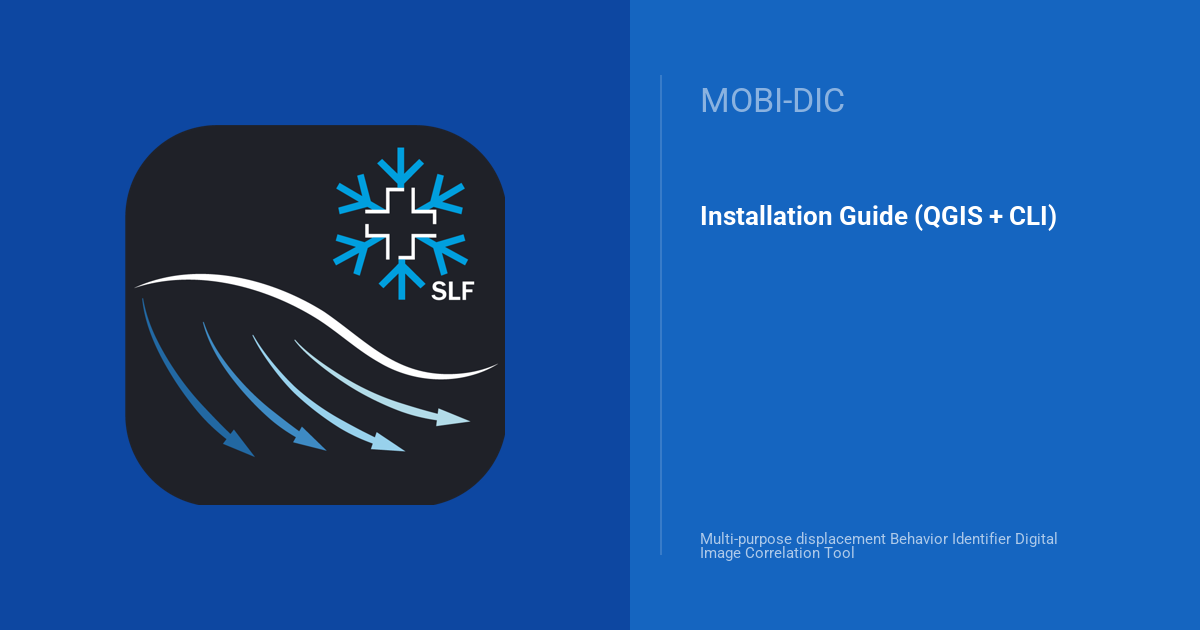
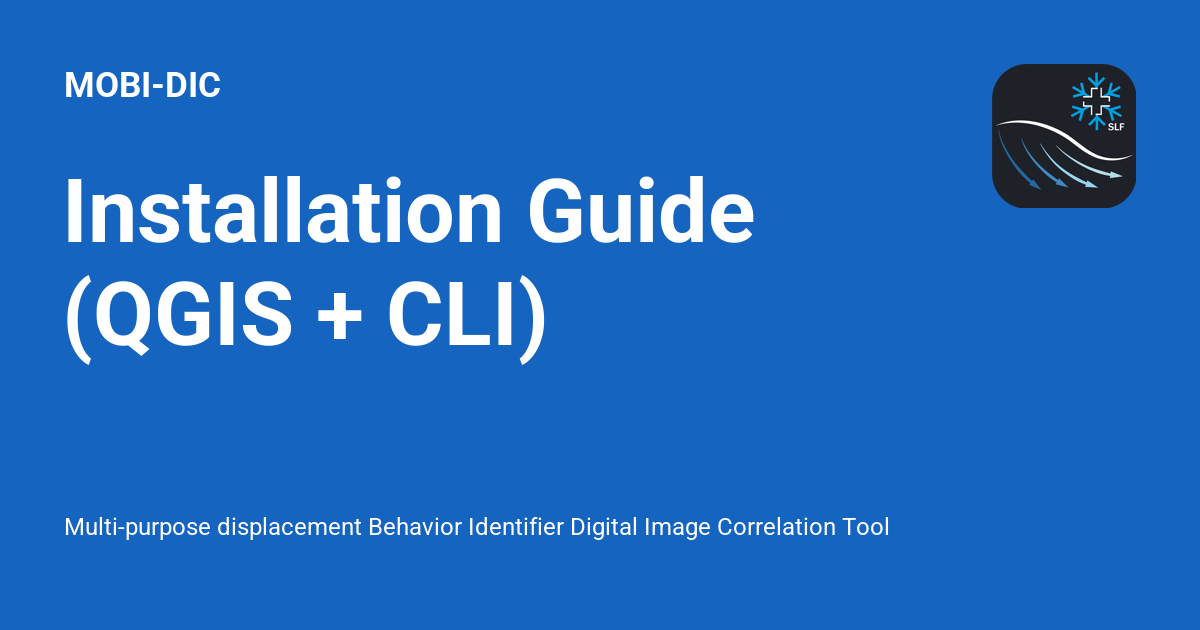
Update documentation

diff --git a/getting-started/installation-pipeline.html b/getting-started/installation-pipeline.html
@@ -60,7 +60,20 @@
 
     
     
-  <link href="../assets/stylesheets/glightbox.min.css" rel="stylesheet"><script src="../assets/javascripts/glightbox.min.js"></script><style id="glightbox-style">
+  
+<meta property="og:type" content="website">
+<meta property="og:title" content="Installation Guide (Pipeline Only) - MOBI-DIC">
+<meta property="og:description" content="Multi-purpose displacement Behavior Identifier Digital Image Correlation Tool">
+<meta property="og:image" content="https://fdenzinger.github.io/mobi-dic/assets/images/social/getting-started/installation-pipeline.png">
+<meta property="og:image:type" content="image/png">
+<meta property="og:image:width" content="1200">
+<meta property="og:image:height" content="630">
+<meta property="og:url" content="https://fdenzinger.github.io/mobi-dic/getting-started/installation-pipeline.html">
+<meta property="twitter:card" content="summary_large_image">
+<meta property="twitter:title" content="Installation Guide (Pipeline Only) - MOBI-DIC">
+<meta property="twitter:description" content="Multi-purpose displacement Behavior Identifier Digital Image Correlation Tool">
+<meta property="twitter:image" content="https://fdenzinger.github.io/mobi-dic/assets/images/social/getting-started/installation-pipeline.png">
+<link href="../assets/stylesheets/glightbox.min.css" rel="stylesheet"><script src="../assets/javascripts/glightbox.min.js"></script><style id="glightbox-style">
             html.glightbox-open { overflow: initial; height: 100%; }
             .gslide-title { margin-top: 0px; user-select: text; }
             .gslide-desc { color: #666; user-select: text; }

diff --git a/getting-started/installation-qgis.html b/getting-started/installation-qgis.html
@@ -60,7 +60,20 @@
 
     
     
-  <link href="../assets/stylesheets/glightbox.min.css" rel="stylesheet"><script src="../assets/javascripts/glightbox.min.js"></script><style id="glightbox-style">
+  
+<meta property="og:type" content="website">
+<meta property="og:title" content="Installation Guide (QGIS + CLI) - MOBI-DIC">
+<meta property="og:description" content="Multi-purpose displacement Behavior Identifier Digital Image Correlation Tool">
+<meta property="og:image" content="https://fdenzinger.github.io/mobi-dic/assets/images/social/getting-started/installation-qgis.png">
+<meta property="og:image:type" content="image/png">
+<meta property="og:image:width" content="1200">
+<meta property="og:image:height" content="630">
+<meta property="og:url" content="https://fdenzinger.github.io/mobi-dic/getting-started/installation-qgis.html">
+<meta property="twitter:card" content="summary_large_image">
+<meta property="twitter:title" content="Installation Guide (QGIS + CLI) - MOBI-DIC">
+<meta property="twitter:description" content="Multi-purpose displacement Behavior Identifier Digital Image Correlation Tool">
+<meta property="twitter:image" content="https://fdenzinger.github.io/mobi-dic/assets/images/social/getting-started/installation-qgis.png">
+<link href="../assets/stylesheets/glightbox.min.css" rel="stylesheet"><script src="../assets/javascripts/glightbox.min.js"></script><style id="glightbox-style">
             html.glightbox-open { overflow: initial; height: 100%; }
             .gslide-title { margin-top: 0px; user-select: text; }
             .gslide-desc { color: #666; user-select: text; }

diff --git a/getting-started/troubleshooting.html b/getting-started/troubleshooting.html
@@ -60,7 +60,20 @@
 
     
     
-  <link href="../assets/stylesheets/glightbox.min.css" rel="stylesheet"><script src="../assets/javascripts/glightbox.min.js"></script><style id="glightbox-style">
+  
+<meta property="og:type" content="website">
+<meta property="og:title" content="Troubleshooting - MOBI-DIC">
+<meta property="og:description" content="Multi-purpose displacement Behavior Identifier Digital Image Correlation Tool">
+<meta property="og:image" content="https://fdenzinger.github.io/mobi-dic/assets/images/social/getting-started/troubleshooting.png">
+<meta property="og:image:type" content="image/png">
+<meta property="og:image:width" content="1200">
+<meta property="og:image:height" content="630">
+<meta property="og:url" content="https://fdenzinger.github.io/mobi-dic/getting-started/troubleshooting.html">
+<meta property="twitter:card" content="summary_large_image">
+<meta property="twitter:title" content="Troubleshooting - MOBI-DIC">
+<meta property="twitter:description" content="Multi-purpose displacement Behavior Identifier Digital Image Correlation Tool">
+<meta property="twitter:image" content="https://fdenzinger.github.io/mobi-dic/assets/images/social/getting-started/troubleshooting.png">
+<link href="../assets/stylesheets/glightbox.min.css" rel="stylesheet"><script src="../assets/javascripts/glightbox.min.js"></script><style id="glightbox-style">
             html.glightbox-open { overflow: initial; height: 100%; }
             .gslide-title { margin-top: 0px; user-select: text; }
             .gslide-desc { color: #666; user-select: text; }

diff --git a/getting-started/installation.html b/getting-started/installation.html
@@ -60,7 +60,20 @@
 
     
     
-  <link href="../assets/stylesheets/glightbox.min.css" rel="stylesheet"><script src="../assets/javascripts/glightbox.min.js"></script><style id="glightbox-style">
+  
+<meta property="og:type" content="website">
+<meta property="og:title" content="Software Overview - MOBI-DIC">
+<meta property="og:description" content="Multi-purpose displacement Behavior Identifier Digital Image Correlation Tool">
+<meta property="og:image" content="https://fdenzinger.github.io/mobi-dic/assets/images/social/getting-started/installation.png">
+<meta property="og:image:type" content="image/png">
+<meta property="og:image:width" content="1200">
+<meta property="og:image:height" content="630">
+<meta property="og:url" content="https://fdenzinger.github.io/mobi-dic/getting-started/installation.html">
+<meta property="twitter:card" content="summary_large_image">
+<meta property="twitter:title" content="Software Overview - MOBI-DIC">
+<meta property="twitter:description" content="Multi-purpose displacement Behavior Identifier Digital Image Correlation Tool">
+<meta property="twitter:image" content="https://fdenzinger.github.io/mobi-dic/assets/images/social/getting-started/installation.png">
+<link href="../assets/stylesheets/glightbox.min.css" rel="stylesheet"><script src="../assets/javascripts/glightbox.min.js"></script><style id="glightbox-style">
             html.glightbox-open { overflow: initial; height: 100%; }
             .gslide-title { margin-top: 0px; user-select: text; }
             .gslide-desc { color: #666; user-select: text; }

diff --git a/cli/config-reference.html b/cli/config-reference.html
@@ -60,7 +60,20 @@
 
     
     
-  <link href="../assets/stylesheets/glightbox.min.css" rel="stylesheet"><script src="../assets/javascripts/glightbox.min.js"></script><style id="glightbox-style">
+  
+<meta property="og:type" content="website">
+<meta property="og:title" content="Configuration Reference - MOBI-DIC">
+<meta property="og:description" content="Multi-purpose displacement Behavior Identifier Digital Image Correlation Tool">
+<meta property="og:image" content="https://fdenzinger.github.io/mobi-dic/assets/images/social/cli/config-reference.png">
+<meta property="og:image:type" content="image/png">
+<meta property="og:image:width" content="1200">
+<meta property="og:image:height" content="630">
+<meta property="og:url" content="https://fdenzinger.github.io/mobi-dic/cli/config-reference.html">
+<meta property="twitter:card" content="summary_large_image">
+<meta property="twitter:title" content="Configuration Reference - MOBI-DIC">
+<meta property="twitter:description" content="Multi-purpose displacement Behavior Identifier Digital Image Correlation Tool">
+<meta property="twitter:image" content="https://fdenzinger.github.io/mobi-dic/assets/images/social/cli/config-reference.png">
+<link href="../assets/stylesheets/glightbox.min.css" rel="stylesheet"><script src="../assets/javascripts/glightbox.min.js"></script><style id="glightbox-style">
             html.glightbox-open { overflow: initial; height: 100%; }
             .gslide-title { margin-top: 0px; user-select: text; }
             .gslide-desc { color: #666; user-select: text; }

diff --git a/plugin/tab-postprocessing.html b/plugin/tab-postprocessing.html
@@ -60,7 +60,20 @@
 
     
     
-  <link href="../assets/stylesheets/glightbox.min.css" rel="stylesheet"><script src="../assets/javascripts/glightbox.min.js"></script><style id="glightbox-style">
+  
+<meta property="og:type" content="website">
+<meta property="og:title" content="Post-Processing - MOBI-DIC">
+<meta property="og:description" content="Multi-purpose displacement Behavior Identifier Digital Image Correlation Tool">
+<meta property="og:image" content="https://fdenzinger.github.io/mobi-dic/assets/images/social/plugin/tab-postprocessing.png">
+<meta property="og:image:type" content="image/png">
+<meta property="og:image:width" content="1200">
+<meta property="og:image:height" content="630">
+<meta property="og:url" content="https://fdenzinger.github.io/mobi-dic/plugin/tab-postprocessing.html">
+<meta property="twitter:card" content="summary_large_image">
+<meta property="twitter:title" content="Post-Processing - MOBI-DIC">
+<meta property="twitter:description" content="Multi-purpose displacement Behavior Identifier Digital Image Correlation Tool">
+<meta property="twitter:image" content="https://fdenzinger.github.io/mobi-dic/assets/images/social/plugin/tab-postprocessing.png">
+<link href="../assets/stylesheets/glightbox.min.css" rel="stylesheet"><script src="../assets/javascripts/glightbox.min.js"></script><style id="glightbox-style">
             html.glightbox-open { overflow: initial; height: 100%; }
             .gslide-title { margin-top: 0px; user-select: text; }
             .gslide-desc { color: #666; user-select: text; }

diff --git a/plugin/tab-vector-filter.html b/plugin/tab-vector-filter.html
@@ -60,7 +60,20 @@
 
     
     
-  <link href="../assets/stylesheets/glightbox.min.css" rel="stylesheet"><script src="../assets/javascripts/glightbox.min.js"></script><style id="glightbox-style">
+  
+<meta property="og:type" content="website">
+<meta property="og:title" content="Vector Filter - MOBI-DIC">
+<meta property="og:description" content="Multi-purpose displacement Behavior Identifier Digital Image Correlation Tool">
+<meta property="og:image" content="https://fdenzinger.github.io/mobi-dic/assets/images/social/plugin/tab-vector-filter.png">
+<meta property="og:image:type" content="image/png">
+<meta property="og:image:width" content="1200">
+<meta property="og:image:height" content="630">
+<meta property="og:url" content="https://fdenzinger.github.io/mobi-dic/plugin/tab-vector-filter.html">
+<meta property="twitter:card" content="summary_large_image">
+<meta property="twitter:title" content="Vector Filter - MOBI-DIC">
+<meta property="twitter:description" content="Multi-purpose displacement Behavior Identifier Digital Image Correlation Tool">
+<meta property="twitter:image" content="https://fdenzinger.github.io/mobi-dic/assets/images/social/plugin/tab-vector-filter.png">
+<link href="../assets/stylesheets/glightbox.min.css" rel="stylesheet"><script src="../assets/javascripts/glightbox.min.js"></script><style id="glightbox-style">
             html.glightbox-open { overflow: initial; height: 100%; }
             .gslide-title { margin-top: 0px; user-select: text; }
             .gslide-desc { color: #666; user-select: text; }

diff --git a/getting-started/first-run.html b/getting-started/first-run.html
@@ -60,7 +60,20 @@
 
     
     
-  <link href="../assets/stylesheets/glightbox.min.css" rel="stylesheet"><script src="../assets/javascripts/glightbox.min.js"></script><style id="glightbox-style">
+  
+<meta property="og:type" content="website">
+<meta property="og:title" content="First Run - MOBI-DIC">
+<meta property="og:description" content="Multi-purpose displacement Behavior Identifier Digital Image Correlation Tool">
+<meta property="og:image" content="https://fdenzinger.github.io/mobi-dic/assets/images/social/getting-started/first-run.png">
+<meta property="og:image:type" content="image/png">
+<meta property="og:image:width" content="1200">
+<meta property="og:image:height" content="630">
+<meta property="og:url" content="https://fdenzinger.github.io/mobi-dic/getting-started/first-run.html">
+<meta property="twitter:card" content="summary_large_image">
+<meta property="twitter:title" content="First Run - MOBI-DIC">
+<meta property="twitter:description" content="Multi-purpose displacement Behavior Identifier Digital Image Correlation Tool">
+<meta property="twitter:image" content="https://fdenzinger.github.io/mobi-dic/assets/images/social/getting-started/first-run.png">
+<link href="../assets/stylesheets/glightbox.min.css" rel="stylesheet"><script src="../assets/javascripts/glightbox.min.js"></script><style id="glightbox-style">
             html.glightbox-open { overflow: initial; height: 100%; }
             .gslide-title { margin-top: 0px; user-select: text; }
             .gslide-desc { color: #666; user-select: text; }

diff --git a/plugin/tab-dic-params.html b/plugin/tab-dic-params.html
@@ -60,7 +60,20 @@
 
     
     
-  <link href="../assets/stylesheets/glightbox.min.css" rel="stylesheet"><script src="../assets/javascripts/glightbox.min.js"></script><style id="glightbox-style">
+  
+<meta property="og:type" content="website">
+<meta property="og:title" content="DIC Parameters - MOBI-DIC">
+<meta property="og:description" content="Multi-purpose displacement Behavior Identifier Digital Image Correlation Tool">
+<meta property="og:image" content="https://fdenzinger.github.io/mobi-dic/assets/images/social/plugin/tab-dic-params.png">
+<meta property="og:image:type" content="image/png">
+<meta property="og:image:width" content="1200">
+<meta property="og:image:height" content="630">
+<meta property="og:url" content="https://fdenzinger.github.io/mobi-dic/plugin/tab-dic-params.html">
+<meta property="twitter:card" content="summary_large_image">
+<meta property="twitter:title" content="DIC Parameters - MOBI-DIC">
+<meta property="twitter:description" content="Multi-purpose displacement Behavior Identifier Digital Image Correlation Tool">
+<meta property="twitter:image" content="https://fdenzinger.github.io/mobi-dic/assets/images/social/plugin/tab-dic-params.png">
+<link href="../assets/stylesheets/glightbox.min.css" rel="stylesheet"><script src="../assets/javascripts/glightbox.min.js"></script><style id="glightbox-style">
             html.glightbox-open { overflow: initial; height: 100%; }
             .gslide-title { margin-top: 0px; user-select: text; }
             .gslide-desc { color: #666; user-select: text; }

diff --git a/cli/overview.html b/cli/overview.html
@@ -60,7 +60,20 @@
 
     
     
-  <link href="../assets/stylesheets/glightbox.min.css" rel="stylesheet"><script src="../assets/javascripts/glightbox.min.js"></script><style id="glightbox-style">
+  
+<meta property="og:type" content="website">
+<meta property="og:title" content="CLI &amp; Batch Processing - MOBI-DIC">
+<meta property="og:description" content="Multi-purpose displacement Behavior Identifier Digital Image Correlation Tool">
+<meta property="og:image" content="https://fdenzinger.github.io/mobi-dic/assets/images/social/cli/overview.png">
+<meta property="og:image:type" content="image/png">
+<meta property="og:image:width" content="1200">
+<meta property="og:image:height" content="630">
+<meta property="og:url" content="https://fdenzinger.github.io/mobi-dic/cli/overview.html">
+<meta property="twitter:card" content="summary_large_image">
+<meta property="twitter:title" content="CLI &amp; Batch Processing - MOBI-DIC">
+<meta property="twitter:description" content="Multi-purpose displacement Behavior Identifier Digital Image Correlation Tool">
+<meta property="twitter:image" content="https://fdenzinger.github.io/mobi-dic/assets/images/social/cli/overview.png">
+<link href="../assets/stylesheets/glightbox.min.css" rel="stylesheet"><script src="../assets/javascripts/glightbox.min.js"></script><style id="glightbox-style">
             html.glightbox-open { overflow: initial; height: 100%; }
             .gslide-title { margin-top: 0px; user-select: text; }
             .gslide-desc { color: #666; user-select: text; }

diff --git a/plugin/tab-layout.html b/plugin/tab-layout.html
@@ -60,7 +60,20 @@
 
     
     
-  <link href="../assets/stylesheets/glightbox.min.css" rel="stylesheet"><script src="../assets/javascripts/glightbox.min.js"></script><style id="glightbox-style">
+  
+<meta property="og:type" content="website">
+<meta property="og:title" content="Map Layout Builder - MOBI-DIC">
+<meta property="og:description" content="Multi-purpose displacement Behavior Identifier Digital Image Correlation Tool">
+<meta property="og:image" content="https://fdenzinger.github.io/mobi-dic/assets/images/social/plugin/tab-layout.png">
+<meta property="og:image:type" content="image/png">
+<meta property="og:image:width" content="1200">
+<meta property="og:image:height" content="630">
+<meta property="og:url" content="https://fdenzinger.github.io/mobi-dic/plugin/tab-layout.html">
+<meta property="twitter:card" content="summary_large_image">
+<meta property="twitter:title" content="Map Layout Builder - MOBI-DIC">
+<meta property="twitter:description" content="Multi-purpose displacement Behavior Identifier Digital Image Correlation Tool">
+<meta property="twitter:image" content="https://fdenzinger.github.io/mobi-dic/assets/images/social/plugin/tab-layout.png">
+<link href="../assets/stylesheets/glightbox.min.css" rel="stylesheet"><script src="../assets/javascripts/glightbox.min.js"></script><style id="glightbox-style">
             html.glightbox-open { overflow: initial; height: 100%; }
             .gslide-title { margin-top: 0px; user-select: text; }
             .gslide-desc { color: #666; user-select: text; }

diff --git a/plugin/overview.html b/plugin/overview.html
@@ -60,7 +60,20 @@
 
     
     
-  <link href="../assets/stylesheets/glightbox.min.css" rel="stylesheet"><script src="../assets/javascripts/glightbox.min.js"></script><style id="glightbox-style">
+  
+<meta property="og:type" content="website">
+<meta property="og:title" content="QGIS Plugin Overview - MOBI-DIC">
+<meta property="og:description" content="Multi-purpose displacement Behavior Identifier Digital Image Correlation Tool">
+<meta property="og:image" content="https://fdenzinger.github.io/mobi-dic/assets/images/social/plugin/overview.png">
+<meta property="og:image:type" content="image/png">
+<meta property="og:image:width" content="1200">
+<meta property="og:image:height" content="630">
+<meta property="og:url" content="https://fdenzinger.github.io/mobi-dic/plugin/overview.html">
+<meta property="twitter:card" content="summary_large_image">
+<meta property="twitter:title" content="QGIS Plugin Overview - MOBI-DIC">
+<meta property="twitter:description" content="Multi-purpose displacement Behavior Identifier Digital Image Correlation Tool">
+<meta property="twitter:image" content="https://fdenzinger.github.io/mobi-dic/assets/images/social/plugin/overview.png">
+<link href="../assets/stylesheets/glightbox.min.css" rel="stylesheet"><script src="../assets/javascripts/glightbox.min.js"></script><style id="glightbox-style">
             html.glightbox-open { overflow: initial; height: 100%; }
             .gslide-title { margin-top: 0px; user-select: text; }
             .gslide-desc { color: #666; user-select: text; }
